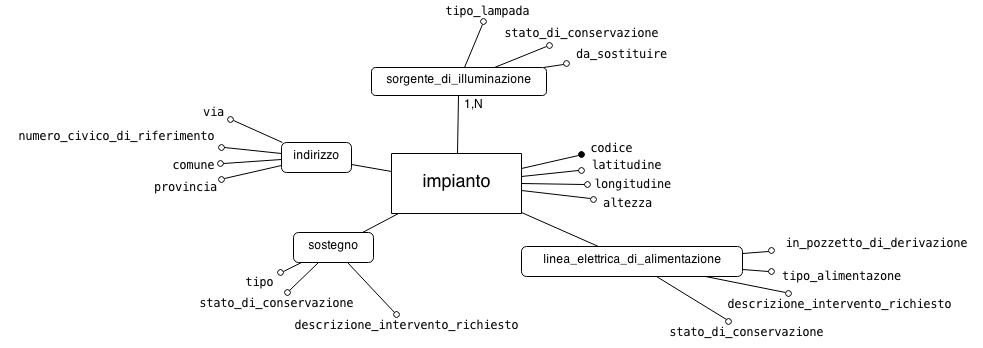
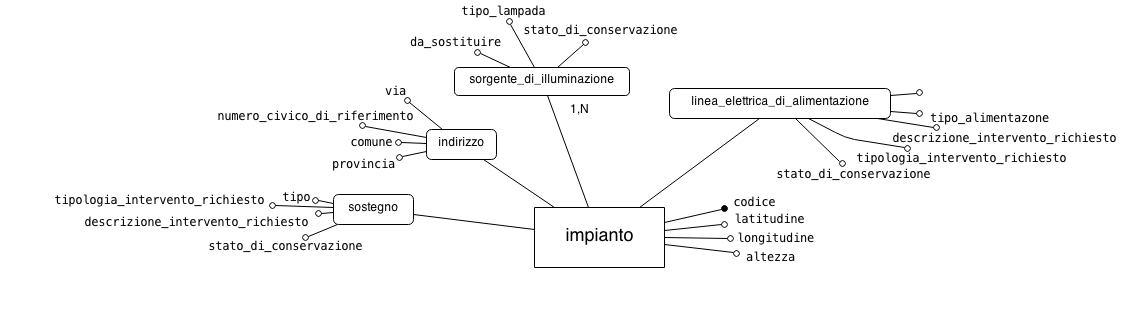
Restructure some 'impianto' attributes

diff --git a/sections/progettazione-logica/tavola-operazioni.md b/sections/progettazione-logica/tavola-operazioni.md
@@ -1,0 +1,49 @@
+### Tavola delle operazioni
+
+Per quanto riguarda le *operazioni 1 e 2*, le entità "impianto" e le relative
+specializzazioni non comportano situazioni particolari nella loro
+creazione/distruzione. Le uniche associazioni tra queste entità sono:
+
+- "controllo": ogni volta che si crea un impianto va specificato qual è il
+    quadro di controllo che lo controlla;
+- "illuminazione": ogni volta che viene creato un attraversamento pedonale va
+    specificato il lampione che lo illumina.
+
+Analoga è la situazione per tutte le altre istanze dello schema: non si sono
+riscontrate operazioni di creazione/cancellazione/aggiornamento particolarmente
+complicate.
+
+L'*operazione 3* è probabilmente la più onerosa, in quanto ogni volta che viene
+creata una missione (40 volte al giorno) vanno cercati gli impianti più vicini a
+un dato punto nello spazio. Questo poiché gli impianti sono più di 200.000 e
+l'operazione (di calcolo della distanza e ordinamento dei risultati) è per sua
+natura computazionalmente "faticosa".
+
+L'*operazione 4* è immediata in quanto ogni impianto è controllato da un solo
+quadro di controllo, e dunque è semplice trovare tutti gli impianti controllati
+da un dato quadro di controllo.
+
+L'*operazione 5* potrebbe risultare onerosa in quanto bisogna risalire ai quadri
+di controllo a partire da una selezione di letture (quelle dell'ultimo mese);
+tuttavia i quadri di controllo risultano in numero contenuto (11.000) e la
+frequenza dell'operazione è molto bassa (mensile).
+
+L'*operazione 6* viene effettuata abbastanza spesso (40 volte al giorno, una per
+ogni missione) e coinvolge circa 4000 impianti -- un impianto per intervento di
+censimento o ispezione. Per come è stata strutturato lo schema concettuale,
+quest'operazione risulta estremamente costosa in quanto per determinare se un
+impianto ha bisogno di manutenzioni bisogna esaminare tutti i suoi attributi
+composti e vedere se essi hanno singolarmente bisogno di manutenzioni. Nella
+ristrutturazione dello schema ER porremo una soluzione a questo problema.
+
+L'*operazione 9* supporta la scelta appena menzionata nell'operazione 6 in
+quanto viene effettuata giornalmente su 20.000 lampioni e necessita di trovare
+quelli che hanno bisogno di interventi di manutenzione.
+
+L'*operazione 7* è immediata e viene oltretutto svolta con frequenza mensile,
+dunque non impatta negativamente le performance della base di dati.
+
+Infine, l'*operazione 8* opera su quadri di controllo (11.000) ma solo quando deve
+essere installato un nuovo impianto (circa 900 volte all'anno o 2,5 volte al
+giorno) e non risulta dunque essere particolarmente onerosa (nonostante, come
+l'operazione 3, essa calcoli distanze tra un punto e quadri di controllo).

diff --git a/sections/progettazione-logica/analisi-volumi.md b/sections/progettazione-logica/analisi-volumi.md
@@ -1,0 +1,54 @@
+### Analisi dei volumi
+
+| Concetto                 | Tipo | Volume                |
+|--                        | -    | -                     |
+| impianto                 | E    | 236.000               |
+| segnale stradale         | E    | 1.000                 |
+| semaforo                 | E    | 4.000                 |
+| attraversamento pedonale | E    | 20.000                |
+| lampione                 | E    | 200.000               |
+| quadro di controllo      | E    | 11.000                |
+| operatore                | E    | 40                    |
+| missione                 | E    | 40/giorno             |
+| controllo                | R    | 225.000 [nota 1]      |
+| illuminazione            | R    | 20.000                |
+| intervento               | R    | 4.185/giorno [nota 2] |
+| lettura                  | R    | 11.000/mese           |
+| assegnamento             | R    | 40/giorno             |
+
+*Nota 1* ci sono in totale 236.000 impianti, ma come specificato in **RV4**, un
+quadro di controllo non può controllare un altro quadro di controllo. Di
+conseguenza, il numero di impianti controllabili da un quadro di controllo
+scende a 225.000.
+
+*Nota 2* le specifiche specificano solo il numero medio annuale di *ispezioni*
+per impianto, ma non specificano altri tipi di interventi (manutenzione,
+installazione, censimento). Discutendo questo aspetto con il cliente, si sono
+ottenute le seguenti informazioni aggiuntive:
+
+- ogni impianto subisce in media un guasto (di qualsiasi tipo --- al sostegno,
+    alla linea elettrica di alimentazione, etc.) ogni 12 mesi
+- vengono installati in media 900 impianti all'anno
+- ogni impianto viene censito in media una volta ogni 2 anni
+
+Secondo i dati raccolti, si è calcolato che ogni impianto subisce in media, ogni
+anno, i seguenti interventi:
+
+- ispezione (4)
+- manutenzione (1)
+- censimento (0,5)
+
+per un totale di 1,527,500 interventi annui più i 900 di installazione; in tutto
+si hanno dunque 1,528,400 interventi annui in media. Questo risultato si traduce
+in circa 4158 interventi giornalieri.
+
+Gli interventi di installazione sono stati trascurati in questo calcolo in
+quanto sono *una tantum* per ogni impianto.
+
+##### Ottimizzazioni
+
+Non si sono riscontrati colli di bottiglia di alcun tipo nello schema
+sviluppato. L'unica associazione che potrebbe suggerire un'ottimizzazione è
+l'associazione "controllo" di cui vi sono 225.000 istanze; l'associazione verrà
+tuttavia rappresentata come un solo attributo dell'entità "impianto" e non
+aggiungerà quindi oneri alla base di dati.

diff --git a/sections/schema-concettuale/entita-e-associazioni.md b/sections/schema-concettuale/entita-e-associazioni.md
@@ -52,11 +52,13 @@ composto con i suoi sotto-attributi:
     * `materiale`
     * `stato_di_conservazione`
     * `descrizione_intervento_richiesto`
+    * `tipologia_intervento_richiesto`
 
-*Nota*: `descrizione_intervento_richiesto` potrà assumere il valore nullo, ad
-indicare che non è richiesto alcun intervento. La presenza di una descrizione
-segnalerà dunque che è richiesto un intervento per il sostegno. Questo varrà
-anche per le situazioni analoghe incontrate successivamente.
+*Nota*: `descrizione_intervento_richiesto` e `tipologia_intervento_richiesto`
+potranno assumere il valore nullo, ad indicare che non è richiesto alcun
+intervento. La presenza di una descrizione e un tipo segnalerà dunque che è
+richiesto un intervento per il sostegno. Questo varrà anche per le situazioni
+analoghe incontrate successivamente.
 
 **Vincolo** il valore di `tipo` dell'attributo composto `sostegno` deve essere
 uno dei seguenti:
@@ -82,6 +84,7 @@ suggerisce la creazione di un altro attributo composto di impianto, ovvero
     * `in_pozzetto_di_derivazione`
     * `stato_di_conservazione`
     * `descrizione_intervento_richiesto` [vedi *nota* in *Sostegno*]
+    * `tipologia_intervento_richiesto`
 
 **Vincolo** il valore di `tipo_alimentazione` deve essere uno dei seguenti:
 
@@ -291,15 +294,9 @@ come un'associazione molti a molti tra "impianto" e "missione".
 L'associazione "intervento" avrà gli attributi:
 
 - `tipo`: il tipo di intervento (manutenzione o installazione);
-- `tipologia_manutenzione`: l'*operazione 6* richiede che gli interventi di
-    manutenzione vengano raggruppati tramite tipologia.
 - `descrizione`: una descrizione dell'intervento effettuato da parte
     dell'operatore. Questo attributo assumerà il valore nullo finché
     l'intervento non verrà effettivamente svolto da un operatore.
-
-**Vincolo** a causa dell'attributo `tipologia_manutenzione`, si introduce un
-vincolo che richiede che `tipologia_manutenzione` sia nullo per un intervento
-quando l'attributo `tipo` dello stesso intervento è diverso da `"manutenzione"`.
 
 La frase
 

diff --git a/sections/progettazione-logica/ristrutturazione-schema-er.md b/sections/progettazione-logica/ristrutturazione-schema-er.md
@@ -1,0 +1,31 @@
+### Ristrutturazione dello schema ER
+
+#### Manutenzione degli impianti
+
+Come accennato nella sezione "Tavola delle operazioni", l'*operazione 6* e
+l'*operazione 9* creano potenziali problemi di performance in quanto richiedono
+di trovare tutti gli impianti che necessitano interventi di manutenzione.
+
+Nello schema sviluppato finora, questo sarebbe possibile soltanto esaminando
+*tutti* gli attributi composti dell'entità "impianto" e risulterebbe dunque
+oneroso.
+
+La soluzione scelta consiste nel "muovere" le informazioni relative a eventuali
+interventi di manutenzione su sostegno, linea elettrica di alimentazione e
+sorgente di illuminazione degli impianti. Queste informazioni sono state
+spostate dai vari attributi composti dell'entità "impianto" all'entità impianto
+stessa. Si è deciso che il componente che necessita l'intervento di manutenzione
+può essere specificato nella descrizione dell'intervento richiesto e che il tipo
+di intervento richiesto può essere specificato in modo più generale.
+
+In questo modo diventa facile selezionare gli impianti che richiedono
+manutenzioni e raggrupparli in base al tipo di manutenzione.
+
+Per convenzione, assumeremo che un impianto *ha bisogno di un intervento di
+manutenzione* quando l'attributo `impianto.tipo_intervento_richiesto` non ha il
+valore nullo.
+
+Di viene raffigurata l'entità "impianto" aggiornata alla modifica appena
+discussa; lo schema ER completo non viene riportato di nuovo per brevità.
+
+![](images/entita-impianto-con-manutenzione.png)

diff --git a/sections/schema-concettuale/ristrutturazione-frasi.md b/sections/schema-concettuale/ristrutturazione-frasi.md
@@ -234,9 +234,14 @@ produrre la lista di tutti i quadri di controllo per i quali è ancora necessari
 effettuare la lettura del consumo, ovvero per i quali non è ancora disponibile
 una lettura effettuata nel mese in corso
 6. Al termine di una missione, di **deve** produrre la lista di tutti gli
-impianti censiti (ovvero sui quali sono stati effettuati interventi di
-censimento). Da questa lista si **dovranno** poter raggruppare gli impianti che
-richiedono interventi di manutenzione, in base alla tipologia di intervento.
+impianti censiti o ispezionati (ovvero sui quali sono stati effettuati
+interventi di censimento o di ispezione). Da questa lista si **dovranno** poter
+raggruppare gli impianti che richiedono interventi di manutenzione, in base alla
+tipologia di intervento.  
+**Raffinamento specifica** si è aggiunto anche il tipo `"ispezione"` ai tipi di
+interventi citati nell'operazione 6. Questa scelta è derivata come conseguenza
+naturale del fatto che gli interventi di ispezione hanno proprio lo scopo di
+scoprire eventuali interventi di manutenzione necessari per un dato impianto.
 7. Mensilmente si vuole calcolare il consumo registrato da ogni quadro di
 controllo (risultante dalla differenza tra la lettura più recente e quella che
 la precede).

diff --git a/sections/schema-concettuale/regole-di-vincolo.md b/sections/schema-concettuale/regole-di-vincolo.md
@@ -43,8 +43,3 @@ relazione "controllo", ma solo in qualità di altro estremo della relazione
 - `"installazione"`
 - `"manutenzione"`
 - `"ispezione"`
-
-##### RV6
-
-`intervento.tipologia_manutenzione` deve avere valore nullo se, per la stessa
-istanza della relazione, `intervento.tipo` è diverso da `"manutenzione"`.

diff --git a/main.md b/main.md
@@ -29,3 +29,7 @@
 
 <!-- BREAK -->
 ## Progettazione logica
+
+<<[sections/progettazione-logica/analisi-volumi.md]
+<<[sections/progettazione-logica/tavola-operazioni.md]
+<<[sections/progettazione-logica/ristrutturazione-schema-er.md]
